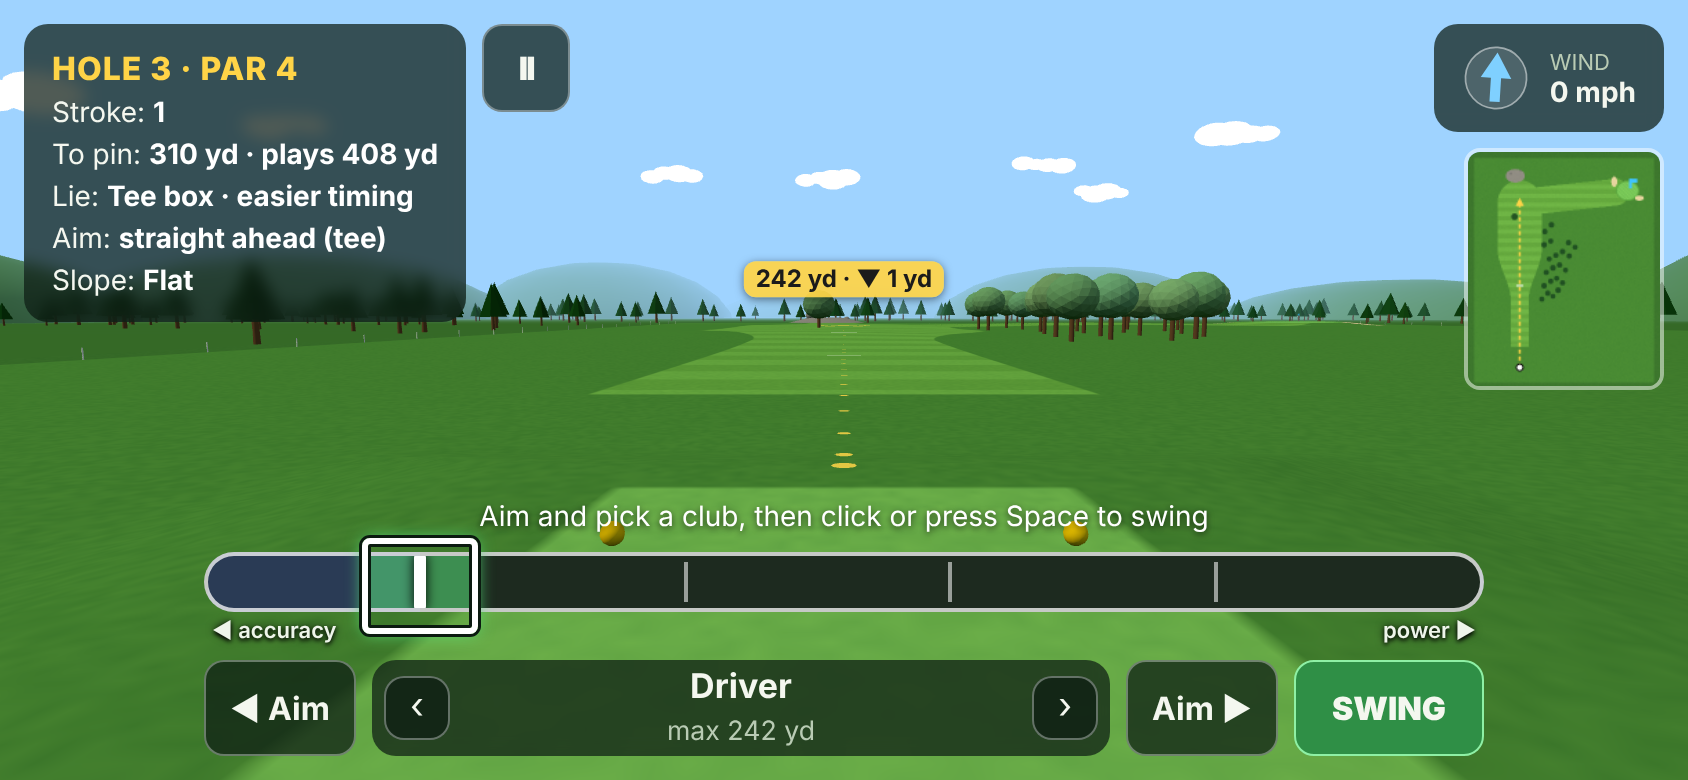
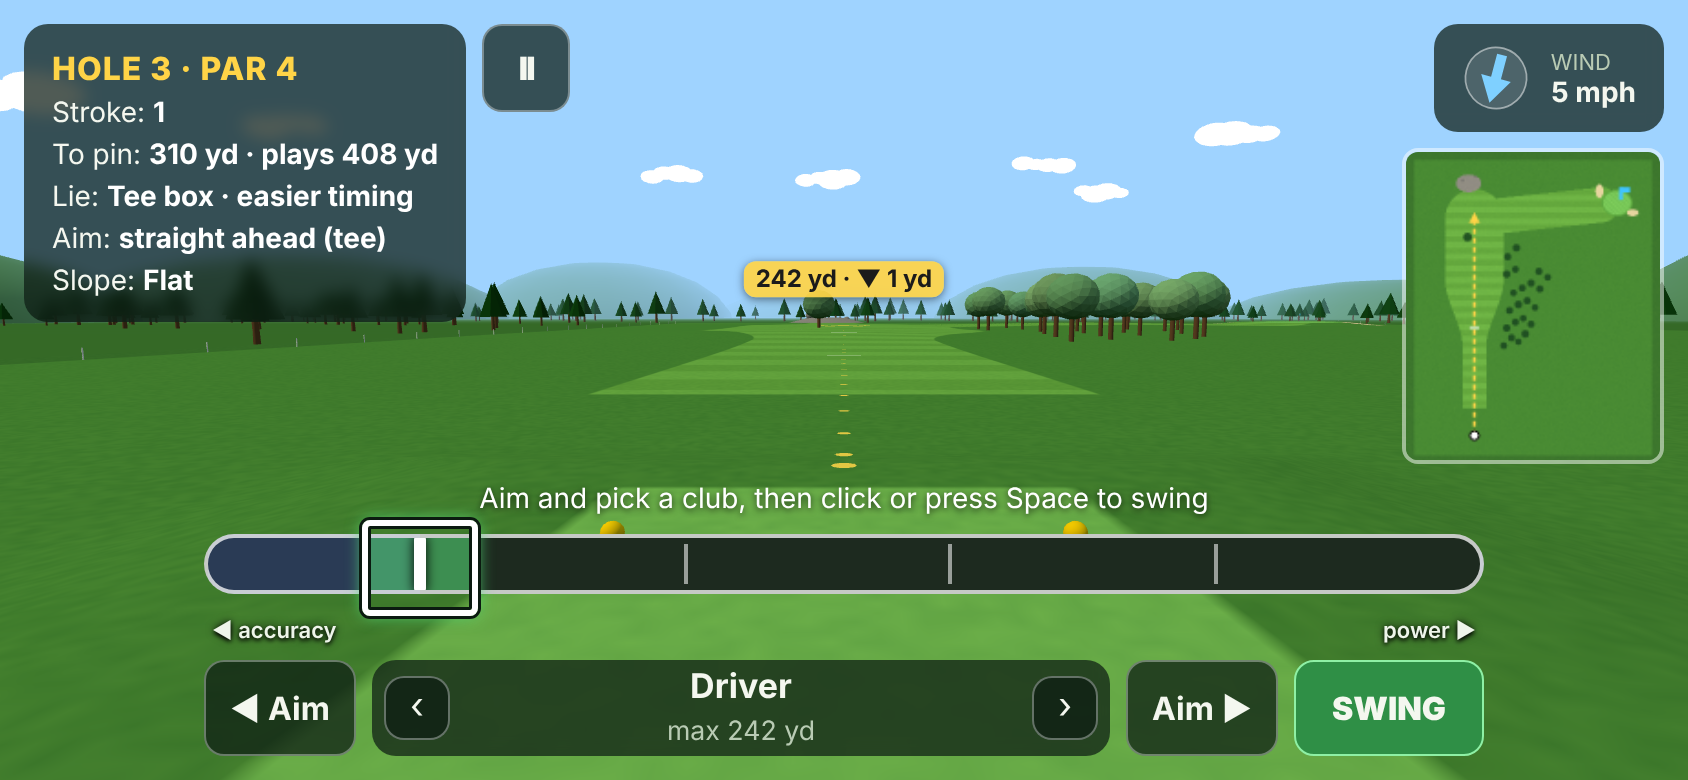
S22: minimap keeps clear of meter and controls only; labels below the frame
PM on PR #53: Skip may sit over the minimap's corner while the ball
moves, so landscape minimaps get bigger again (568x320: 88 px tall).
The "accuracy / power" labels move below the accuracy frame.

Claude-Session: https://claude.ai/code/session_01Rv6NgAADw2XvfsDiNgoB5v

diff --git a/src/game/hud.js b/src/game/hud.js
@@ -65,24 +65,23 @@ export function setupHolePage(hole, round = null, { links = true, green = hole.s
 }
 
 // S22 (owner on PR #53): the bigger minimap keeps its shape and shrinks only as far as it must to end
-// above the bottom panel (meter, controls) and the ⏩ Skip button's place, where it is above them; a
-// minimap right of the panel (a wide landscape screen) may run down to the bottom edge. Called when a
+// above the bottom panel (meter, controls), where it is above it; a minimap right of the panel (a wide
+// landscape screen) may run down to the bottom edge. ⏩ Skip may sit over its corner while the ball
+// moves (PM on PR #53: Skip only shows then; a bigger minimap matters more). Called when a
 // hole loads and on every resize (session.resize). Before S22 a CSS rule capped it at 100vh − 240 px.
 export function fitMinimap() {
-  const mm = $('minimap'), bottom = $('bottom'), skip = $('skipBtn');
+  const mm = $('minimap'), bottom = $('bottom');
   if (!mm || !bottom) return;
   mm.style.width = mm.style.height = '';
   const r = mm.getBoundingClientRect(), b = bottom.getBoundingClientRect();
   if (!r.height) return;
-  const { gap, skipW, skipH, minH } = HUD.minimapFit;
-  const skipLeft = b.right - Math.max(skipW, skip && !skip.hidden ? skip.getBoundingClientRect().width : 0);
+  const { gap, minH } = HUD.minimapFit;
   const aspect = r.width / r.height, screenFloor = (window.visualViewport?.height ?? window.innerHeight) - gap;
   // The tallest it can be at a given height h: its width w = h × aspect, right edge fixed
   const fits = h => {
     const left = r.right - h * aspect;
     let floor = screenFloor;
-    if (left < b.right) floor = Math.min(floor, b.top - gap);                       // over the panel
-    if (left < b.right && r.right > skipLeft) floor = Math.min(floor, b.top - skipH - gap); // over Skip's place
+    if (left < b.right) floor = Math.min(floor, b.top - gap); // over the panel
     return r.top + h <= floor;
   };
   if (fits(r.height)) return;

diff --git a/index.html b/index.html
@@ -77,7 +77,7 @@
     padding: 3px 8px; border-radius: 6px; text-align: center; pointer-events: none; box-shadow: 0 2px 8px rgba(0,0,0,.4); }
   #tuned[hidden] { display: none; }
   /* H1: a shadow like the hint line, so the labels stay readable over sand and bright grass */
-  #meterLabels { display: flex; justify-content: space-between; font-size: 11px; font-weight: 600; color: #eef5ea; padding: 2px 4px 0;
+  #meterLabels { display: flex; justify-content: space-between; font-size: 11px; font-weight: 600; color: #eef5ea; padding: 11px 4px 0; /* S22: below the accuracy frame (it sticks out 7 px under the bar) */
     text-shadow: 0 1px 2px #000, 0 0 4px rgba(0,0,0,.8); }
   #controls { display: flex; gap: 8px; align-items: stretch; }
   button { font: inherit; color: var(--text); background: var(--panel); border: 1px solid rgba(255,255,255,.35); border-radius: 10px; padding: 8px 12px; cursor: pointer; }
@@ -290,8 +290,7 @@
     #swingBtn { padding: 8px 8px; font-size: 14px; }
   }
   /* Short screens (phone landscape): the minimap keeps the hole's full size here and hud.js fitMinimap()
-     shrinks it, keeping its shape, only as far as it must to end above the meter, controls and the Skip
-     button's place (S22; before: a fixed cap of 100vh − 240 px, H1 PR #15). */
+     shrinks it, keeping its shape, only as far as it must to end above the meter and controls (S22; before: a fixed cap of 100vh − 240 px, H1 PR #15). */
   @media (max-height: 500px) {
     #minimap { width: var(--mm-w, auto); height: var(--mm-h, 220px); }
   }

diff --git a/src/core/config.js b/src/core/config.js
@@ -90,7 +90,7 @@ export const TIMING = { afterStop: 1300, afterPenalty: 1700, afterHoled: 1600, a
 export const POWER_SECTIONS = 4;
 // S22 (owner on PR #53): the minimap's aim line shows only these ticks (less busy than the 3D line)
 export const MINIMAP_TICKS = Object.freeze([0.5]);
-export const HUD = { slopeMinPct: 0.5, elevMinM: 0.5, pinTickMax: 1.02, pinFlagFlip: 0.85, atTeeM: 1, minimapFit: { gap: 8, skipW: 110, skipH: 46, minH: 40 } }; // pinFlagFlip: above this power the ⚑ flag sits left of its line (H1); atTeeM: "plays N yd" shows while the ball is this close to the tee; minimapFit (S22): px the minimap keeps clear of the bottom panel and the Skip button's place
+export const HUD = { slopeMinPct: 0.5, elevMinM: 0.5, pinTickMax: 1.02, pinFlagFlip: 0.85, atTeeM: 1, minimapFit: { gap: 8, minH: 40 } }; // pinFlagFlip: above this power the ⚑ flag sits left of its line (H1); atTeeM: "plays N yd" shows while the ball is this close to the tee; minimapFit (S22): px the minimap keeps clear of the bottom panel, and its smallest height
 
 // --- Tunables: ?tune= overrides (X8), one entry each (Gate A A5) ---
 // The only names a tune link may change. Each entry is the whole definition: the default (`def`)

diff --git a/docs/DESIGN.md b/docs/DESIGN.md
@@ -50,7 +50,7 @@ Today ✅ one hole per page with an intro card and a result card. ❌ No menu, n
   - ✅ **every tee shot (par 3, 4 and 5): straight ahead along the tee's facing** (S21, owner playtest 2026-11-18: "the automatic aiming is still way too easy. On the tee box, the aiming should just be straight away instead of on the green. It's ok sometimes if the default aim ends not in the fairway, makes the player adjust it"). **The facing** (`play.teeFacing()`) is straight down the hole's −z axis (every tee box is drawn square to it), unless the hole's optional `teeFacing: { x, z }` names the point a turned tee box faces (the course designer sets it; PM on PR #53). The aim point is on that line at the selected club's **carry** × `TEE_AIM_CARRY` (1, tunable: `?tune=TEE_AIM_CARRY:0.9`), not a solved spot, so it may end in the rough, a bunker or under trees and the player adjusts. It moves with the club when the player changes club (the direction stays). `play.targetKind` is `'tee'`, the scorecard says "Aim: straight ahead (tee)". **The auto-pick on the tee** is the shortest club that reaches the landing area: a par 4/5's optional `aimTarget`, a par 3's green centre, else the cup (rule 3 below; the Driver on holes 2 and 3, the 7 Iron on hole 1). `aimTarget` no longer steers the aim. Before S21: par 4/5 tee shots aimed at `aimTarget` itself and par 3 tee shots at the green centre.
   - **everything else** (approaches, bunker shots): the **centre of the green** (`features.green`)
   - The ⚑ mark and the auto-pick use the distance to this point (`play.targetDist()`), also after the player turns the aim. The HUD "To pin" is unchanged; the aim line ends in the S22 marker. `play.target` / `play.targetKind` say where it aims; the scorecard shows it under the lie ("Aim: green centre / straight ahead (tee) / the cup / the cup (within 33 yd)", so a new player learns the rule) and the debug overlay too.
-- ✅ **S22 (owner, playtest 1): the ⚑ is for putts only.** Full shots and chips show no ⚑; the player reads distance from the **power bar's 4 equal sections** (25/50/75/100%, `POWER_SECTIONS`) and the **aim marker**: the aim line (3D and minimap) ends in a triangle where a straight, no-wind shot at 100% **lands** (carry, hills included; the same point as "max N yd"), with a short bar across the line where 25%, 50% and 75% land, and a label at the marker: the carry in yards and the ground there, "164 yd · Flat", "152 yd · ▲ 5 yd" (the landing spot is above the ball) or "▼ 3 yd" ("Flat" within `AIM_FLAT_RISE`, 0.5 m, tunable). Carry is exactly linear in power (`launchVelocity`: carry = power × club carry, measured on the real ball within 0.003 of 25/50/75% on flat ground and ±5% slopes), so a section of the bar is a quarter of the carry along the line. **On a capped lie** (rough 85%, sand 50%) the marker sits at the cap, where the ball can actually go, greyed, with "· max 85%" in the label; only the ticks below the cap are drawn, so a tick means the same power everywhere (PM on PR #53). Wind stays the player's read. A putt keeps the small ring and the ⚑. **Owner on PR #53:** the **minimap's** aim line shows only the 50% tick (`MINIMAP_TICKS`) and the end triangle (the 3D line keeps all three ticks); the **minimap is 1.2× bigger** (`MINIMAP_SCALE`, +44% area, `?tune=`), and `hud.js` `fitMinimap()` shrinks it (same shape) only as far as needed to end above the bottom panel and the ⏩ Skip button's place, or lets a narrow one run down beside the panel on a wide landscape screen (replaces the fixed CSS cap of 100vh − 240 px; on short landscape phones it is smaller than before where the old one could cover Skip's place: 568×320 → 51 px tall). **The accuracy window** (the third-click target) is also drawn as a white frame with a dark outline that sticks out 7 px above and below the bar, so the target shows at a glance. `play.aimMarks()` / `aimMarkLabel()` (core) give the marker, ticks and label. The yellow ring of full shots is replaced by the marker.
+- ✅ **S22 (owner, playtest 1): the ⚑ is for putts only.** Full shots and chips show no ⚑; the player reads distance from the **power bar's 4 equal sections** (25/50/75/100%, `POWER_SECTIONS`) and the **aim marker**: the aim line (3D and minimap) ends in a triangle where a straight, no-wind shot at 100% **lands** (carry, hills included; the same point as "max N yd"), with a short bar across the line where 25%, 50% and 75% land, and a label at the marker: the carry in yards and the ground there, "164 yd · Flat", "152 yd · ▲ 5 yd" (the landing spot is above the ball) or "▼ 3 yd" ("Flat" within `AIM_FLAT_RISE`, 0.5 m, tunable). Carry is exactly linear in power (`launchVelocity`: carry = power × club carry, measured on the real ball within 0.003 of 25/50/75% on flat ground and ±5% slopes), so a section of the bar is a quarter of the carry along the line. **On a capped lie** (rough 85%, sand 50%) the marker sits at the cap, where the ball can actually go, greyed, with "· max 85%" in the label; only the ticks below the cap are drawn, so a tick means the same power everywhere (PM on PR #53). Wind stays the player's read. A putt keeps the small ring and the ⚑. **Owner on PR #53:** the **minimap's** aim line shows only the 50% tick (`MINIMAP_TICKS`) and the end triangle (the 3D line keeps all three ticks); the **minimap is 1.2× bigger** (`MINIMAP_SCALE`, +44% area, `?tune=`), and `hud.js` `fitMinimap()` shrinks it (same shape) only as far as needed to end above the bottom panel (meter and controls), or lets a narrow one run down beside the panel on a wide landscape screen (replaces the fixed CSS cap of 100vh − 240 px). ⏩ Skip may sit over the minimap's corner while the ball moves (PM on PR #53: it only shows then). The "◀ accuracy / power ▶" labels sit below the accuracy frame. **The accuracy window** (the third-click target) is also drawn as a white frame with a dark outline that sticks out 7 px above and below the bar, so the target shows at a glance. `play.aimMarks()` / `aimMarkLabel()` (core) give the marker, ticks and label. The yellow ring of full shots is replaced by the marker.
 - The **⚑ mark** (since S22 putts only; the core value `play.pinPower()` is still kept for every shot: validateHole and tests use it) shows the power needed to reach the default aim point (S18; the pin for a putt), adjusted for elevation (S12). ✅ Since S15 it is the power at which the ball **comes to rest** there: core plays the whole shot (flight, bounces, roll, slopes, cup) on a second, invisible ball with no wind and a straight hit (`play.restPoint()`), so a long club's run-out is included (before, every club landed 95% of the way and a 3 Wood finished 7–11 m past the pin, QA G2). With no wind and a straight shot, every club at 100–180 m finishes within 2 m of the target on flat ground and on ±8% slopes (tests/pin-mark.test.js; on a straight test hole it usually drops). Where no power finishes there, because a short ball lands on a bank and rolls back while a longer one carries onto the top and runs on (below hole 2's raised green), the ⚑ takes the power with the closest finish. ✅ **Chips stop short** (PM on PR #31, "harder is much better"): within `CHIP_AIM_RANGE` of the cup, with a club (not the putter), the ⚑ marks a finish `CHIP_FLAG_SHORT` (1.5 m, tunable) **short** of the cup, so a perfect ⚑ chip leaves a short putt and going for the hole means adding power on purpose. Compare with `?tune=CHIP_FLAG_SHORT:0` (finish at the cup) or `:3`. Above the lie's cap it sits in the grayed-out part (out of reach with this club). Near the right end of the meter the flag is drawn on the left of its line so it isn't cut off (H1). Rolling back off a tier is included since S15 only as far as the ⚑ picks the closest finish; reading a ridge stays the player's job (PM on PR #15).
 - The club is picked automatically each shot (see "Club auto-pick") and the player can change to any club in the bag.
 
